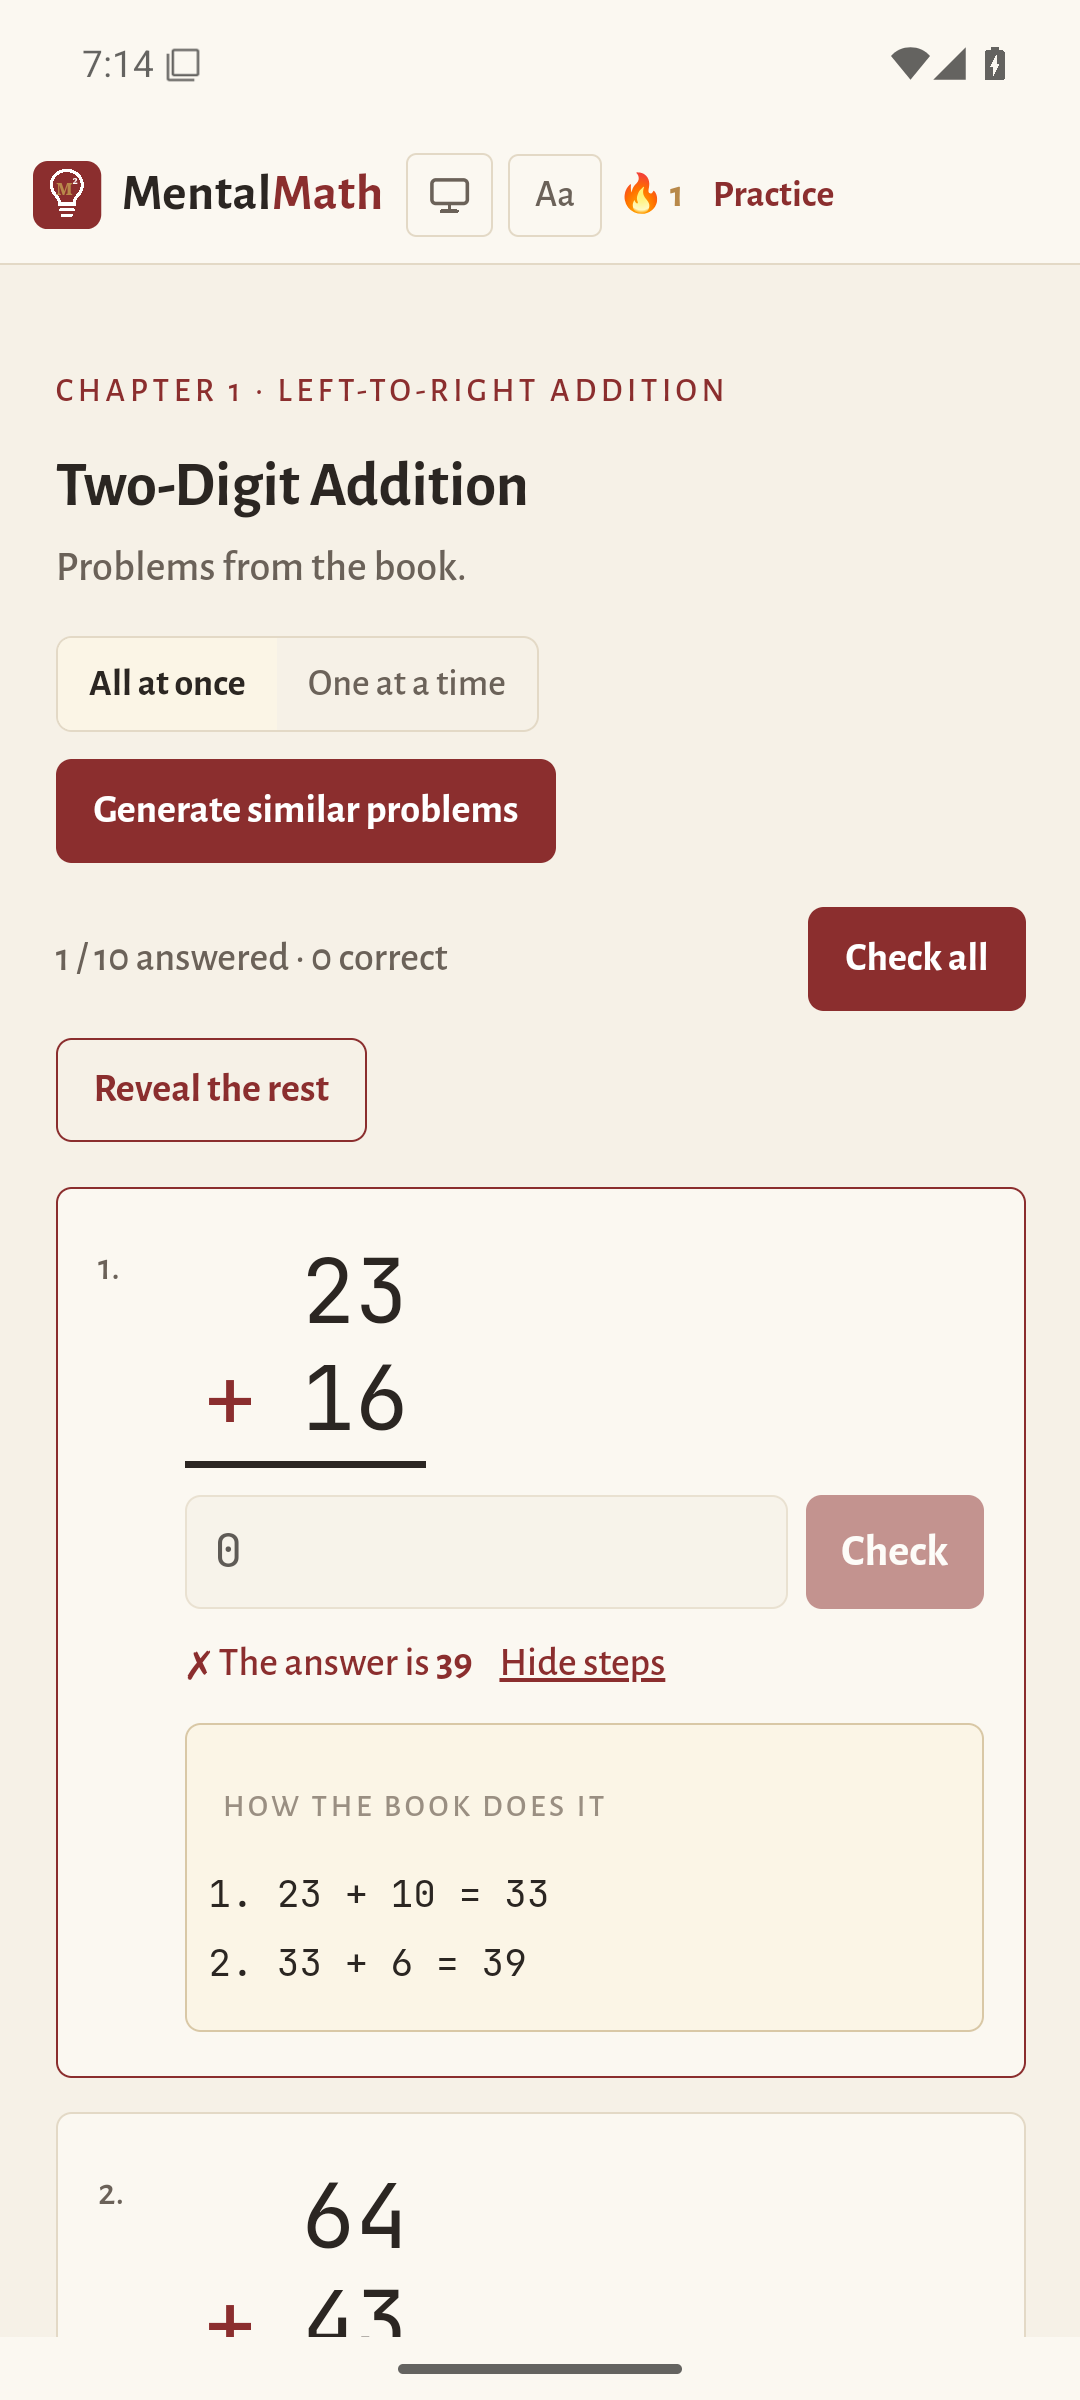
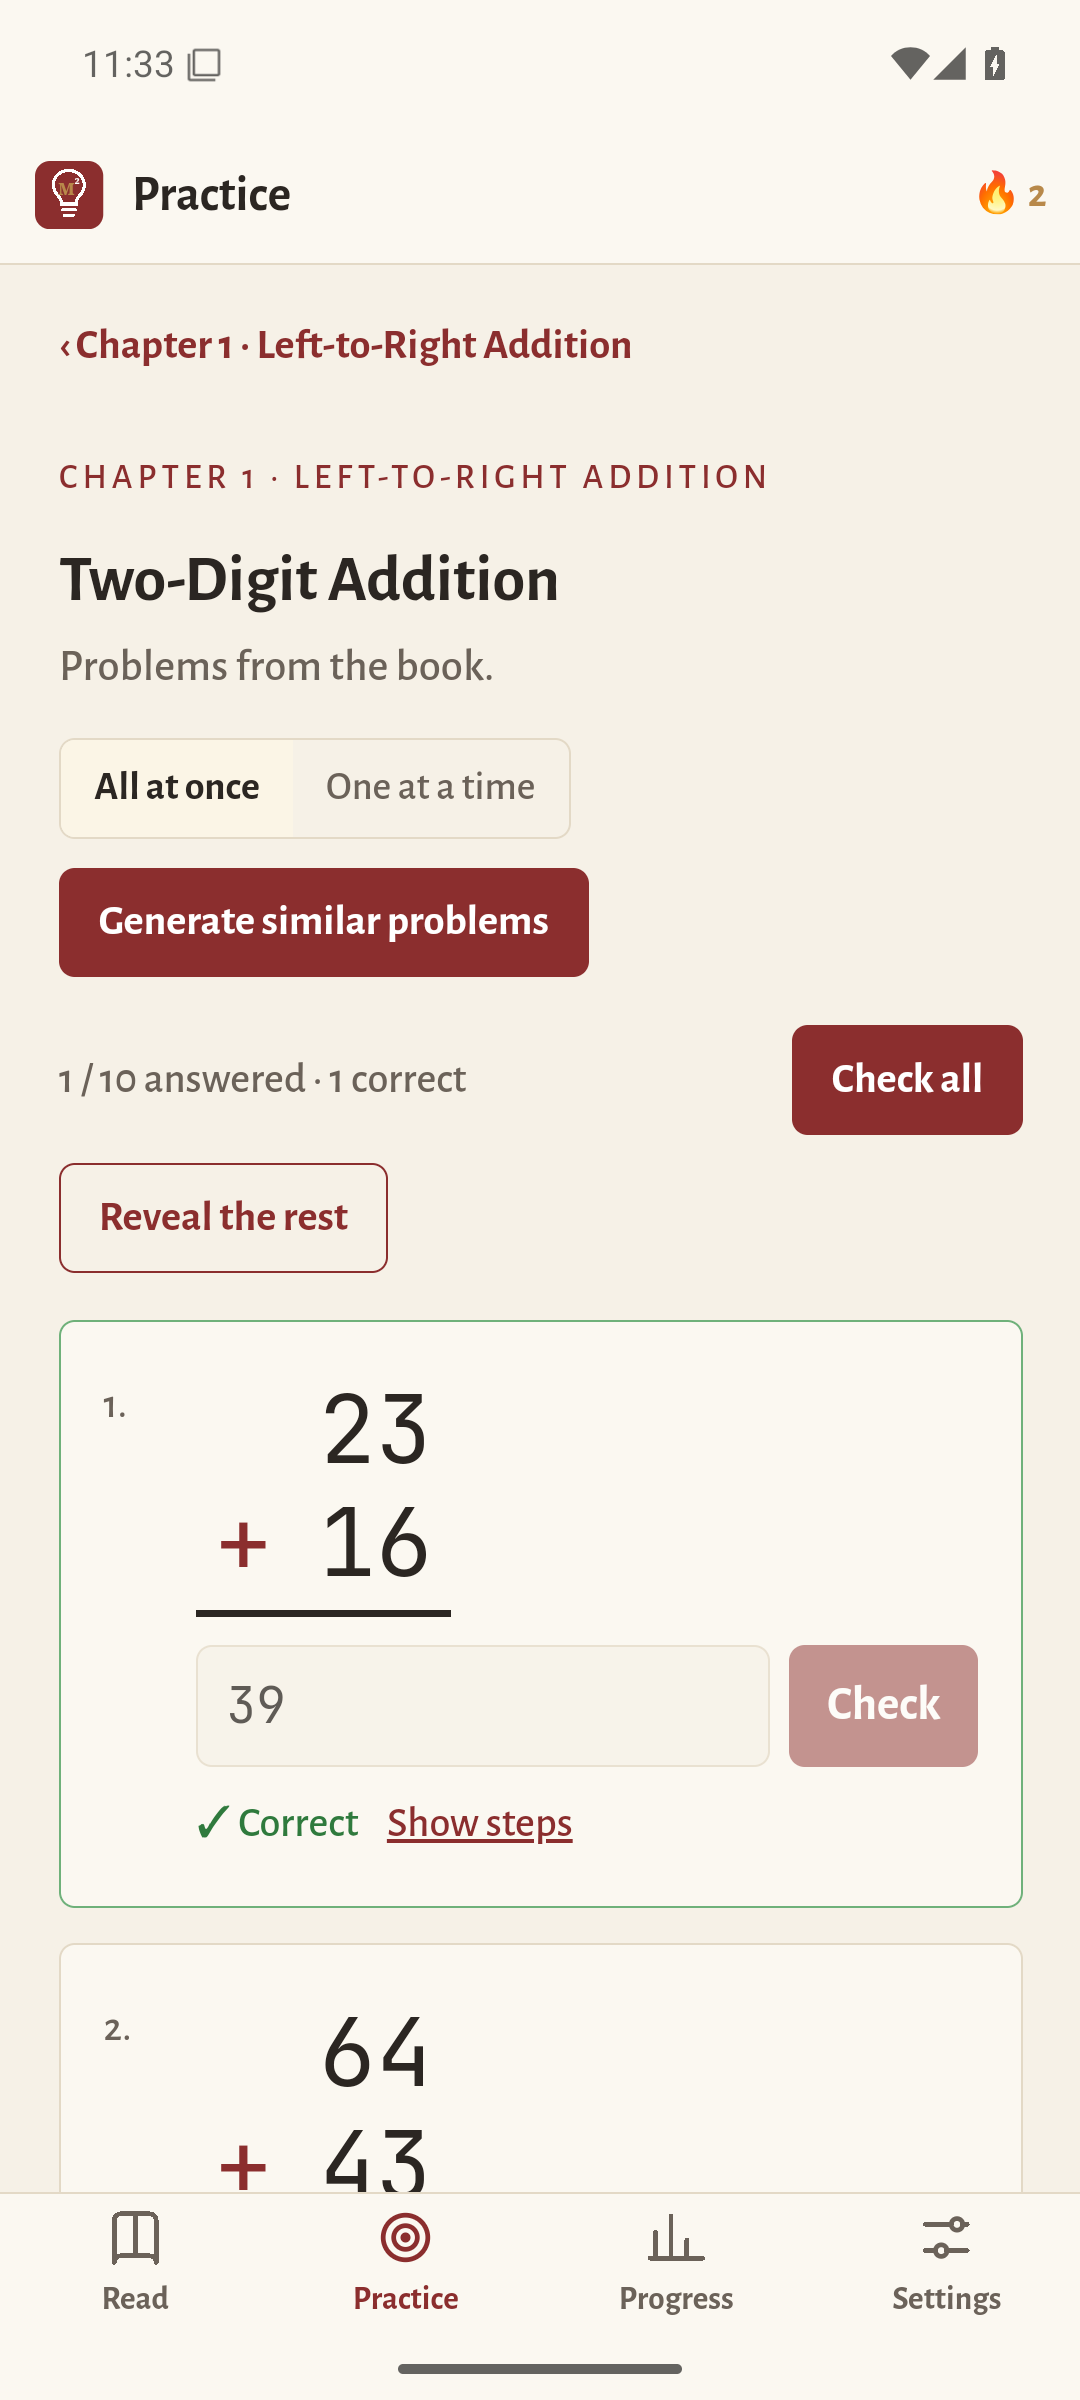
chore(android): 1.0.0 build synced, emulator screenshots of the phone shell, docs

diff --git a/README.md b/README.md
@@ -59,15 +59,20 @@ Every worked example in the book (397 figures across chapters 0 to 9) is transcr
 
 The site runs as a systemd user service (`mentalmath.service`, enabled at boot with linger) that serves a copy of `dist/` from `~/srv/mentalmath` on port 8547 through `scripts/serve.mjs`, a dependency-free static server with the SPA fallback and the cache headers the service worker needs. `scripts/mentalmath.sh` manages it: `deploy` (build and publish), `update` (pull, install if the lockfile changed, deploy), `start`, `stop`, `restart`, `status`, `logs`, `health`, `url`, `install`, `uninstall`. Override `PORT`, `HOST` or `SITE_DIR` in the environment.
 
+## On a phone
+
+Under 720 px the app switches to a phone shell: bottom tabs (Read, Practice, Progress, Settings), a compact header with the page title, one section per page in the reader (swipe or arrows; `Settings → Reading` restores scrolling), a full-screen drill with an on-screen keypad for generated sets, and the worksheet for book sets. A drill interrupted by a call or an app switch resumes where it stopped (`src/practice/resume.ts`, sessionStorage). Settings collects theme, text size and font, the reading lock, the clock, haptics (native only) and backup / restore / reset of the local data; Progress shows streak, totals, per-chapter reading and practice history. `e2e/mobile.spec.ts` guards the phone layout (no sideways scroll, thumb-sized controls, tab bar, keypad, resume).
+
 ## Android app
 
 `android/` is a Capacitor 7 project that bundles the built site (offline, no server). Toolchain on this host: OpenJDK 21, the Android SDK in `~/Android/Sdk` (platform 35, build-tools, emulator with a Pixel 6 AVD named `mentalmath`), and `scripts/android-env.sh` puts them on `PATH`. Commands through `scripts/mentalmath.sh`:
 
-- `android:debug` builds `android/app/build/outputs/apk/debug/app-debug.apk`; `android:release` builds the signed Play bundle `app-release.aab` (the upload keystore and its passwords live in `~/.mentalmath/`, never in the repo: back that folder up, a lost key means a new store listing).
+- `android:debug` builds `android/app/build/outputs/apk/debug/app-debug.apk`; `android:release` builds the signed Play bundle into `store/` with `versionName` from `package.json` and `versionCode` derived from it (`bump [patch|minor|major]` raises both). The upload keystore and its passwords live in `~/.mentalmath/`, never in the repo: back that folder up, a lost key means a new store listing.
+- Inside the app, Android Back walks the app's own history, the status and navigation bars follow the theme, a drill keeps the screen awake and taps on check.
 - `android:icons` regenerates launcher icons and splash screens from `assets/` with `@capacitor/assets`.
 - `emu:start`, `emu:install`, `emu:shots`: boot the headless emulator (KVM), install the debug APK and drive the app through the WebView's DevTools socket (`scripts/android-shots.mjs`) to capture `screenshots/android/*.png`, the Android counterpart of the web screenshot set.
 
-Store assets are under `store/` (512 px icon, 1024×500 feature graphic); the phone screenshots come from `screenshots/android/`. App id `dev.hbq.mentalmath`, version in `android/app/build.gradle`.
+Store assets are under `store/` (512 px icon, 1024×500 feature graphic, `listing.md` with the descriptions and release notes); the phone screenshots come from `screenshots/android/`. App id `dev.hbq.mentalmath`, version in `android/app/build.gradle`.
 
 ## Status
 
